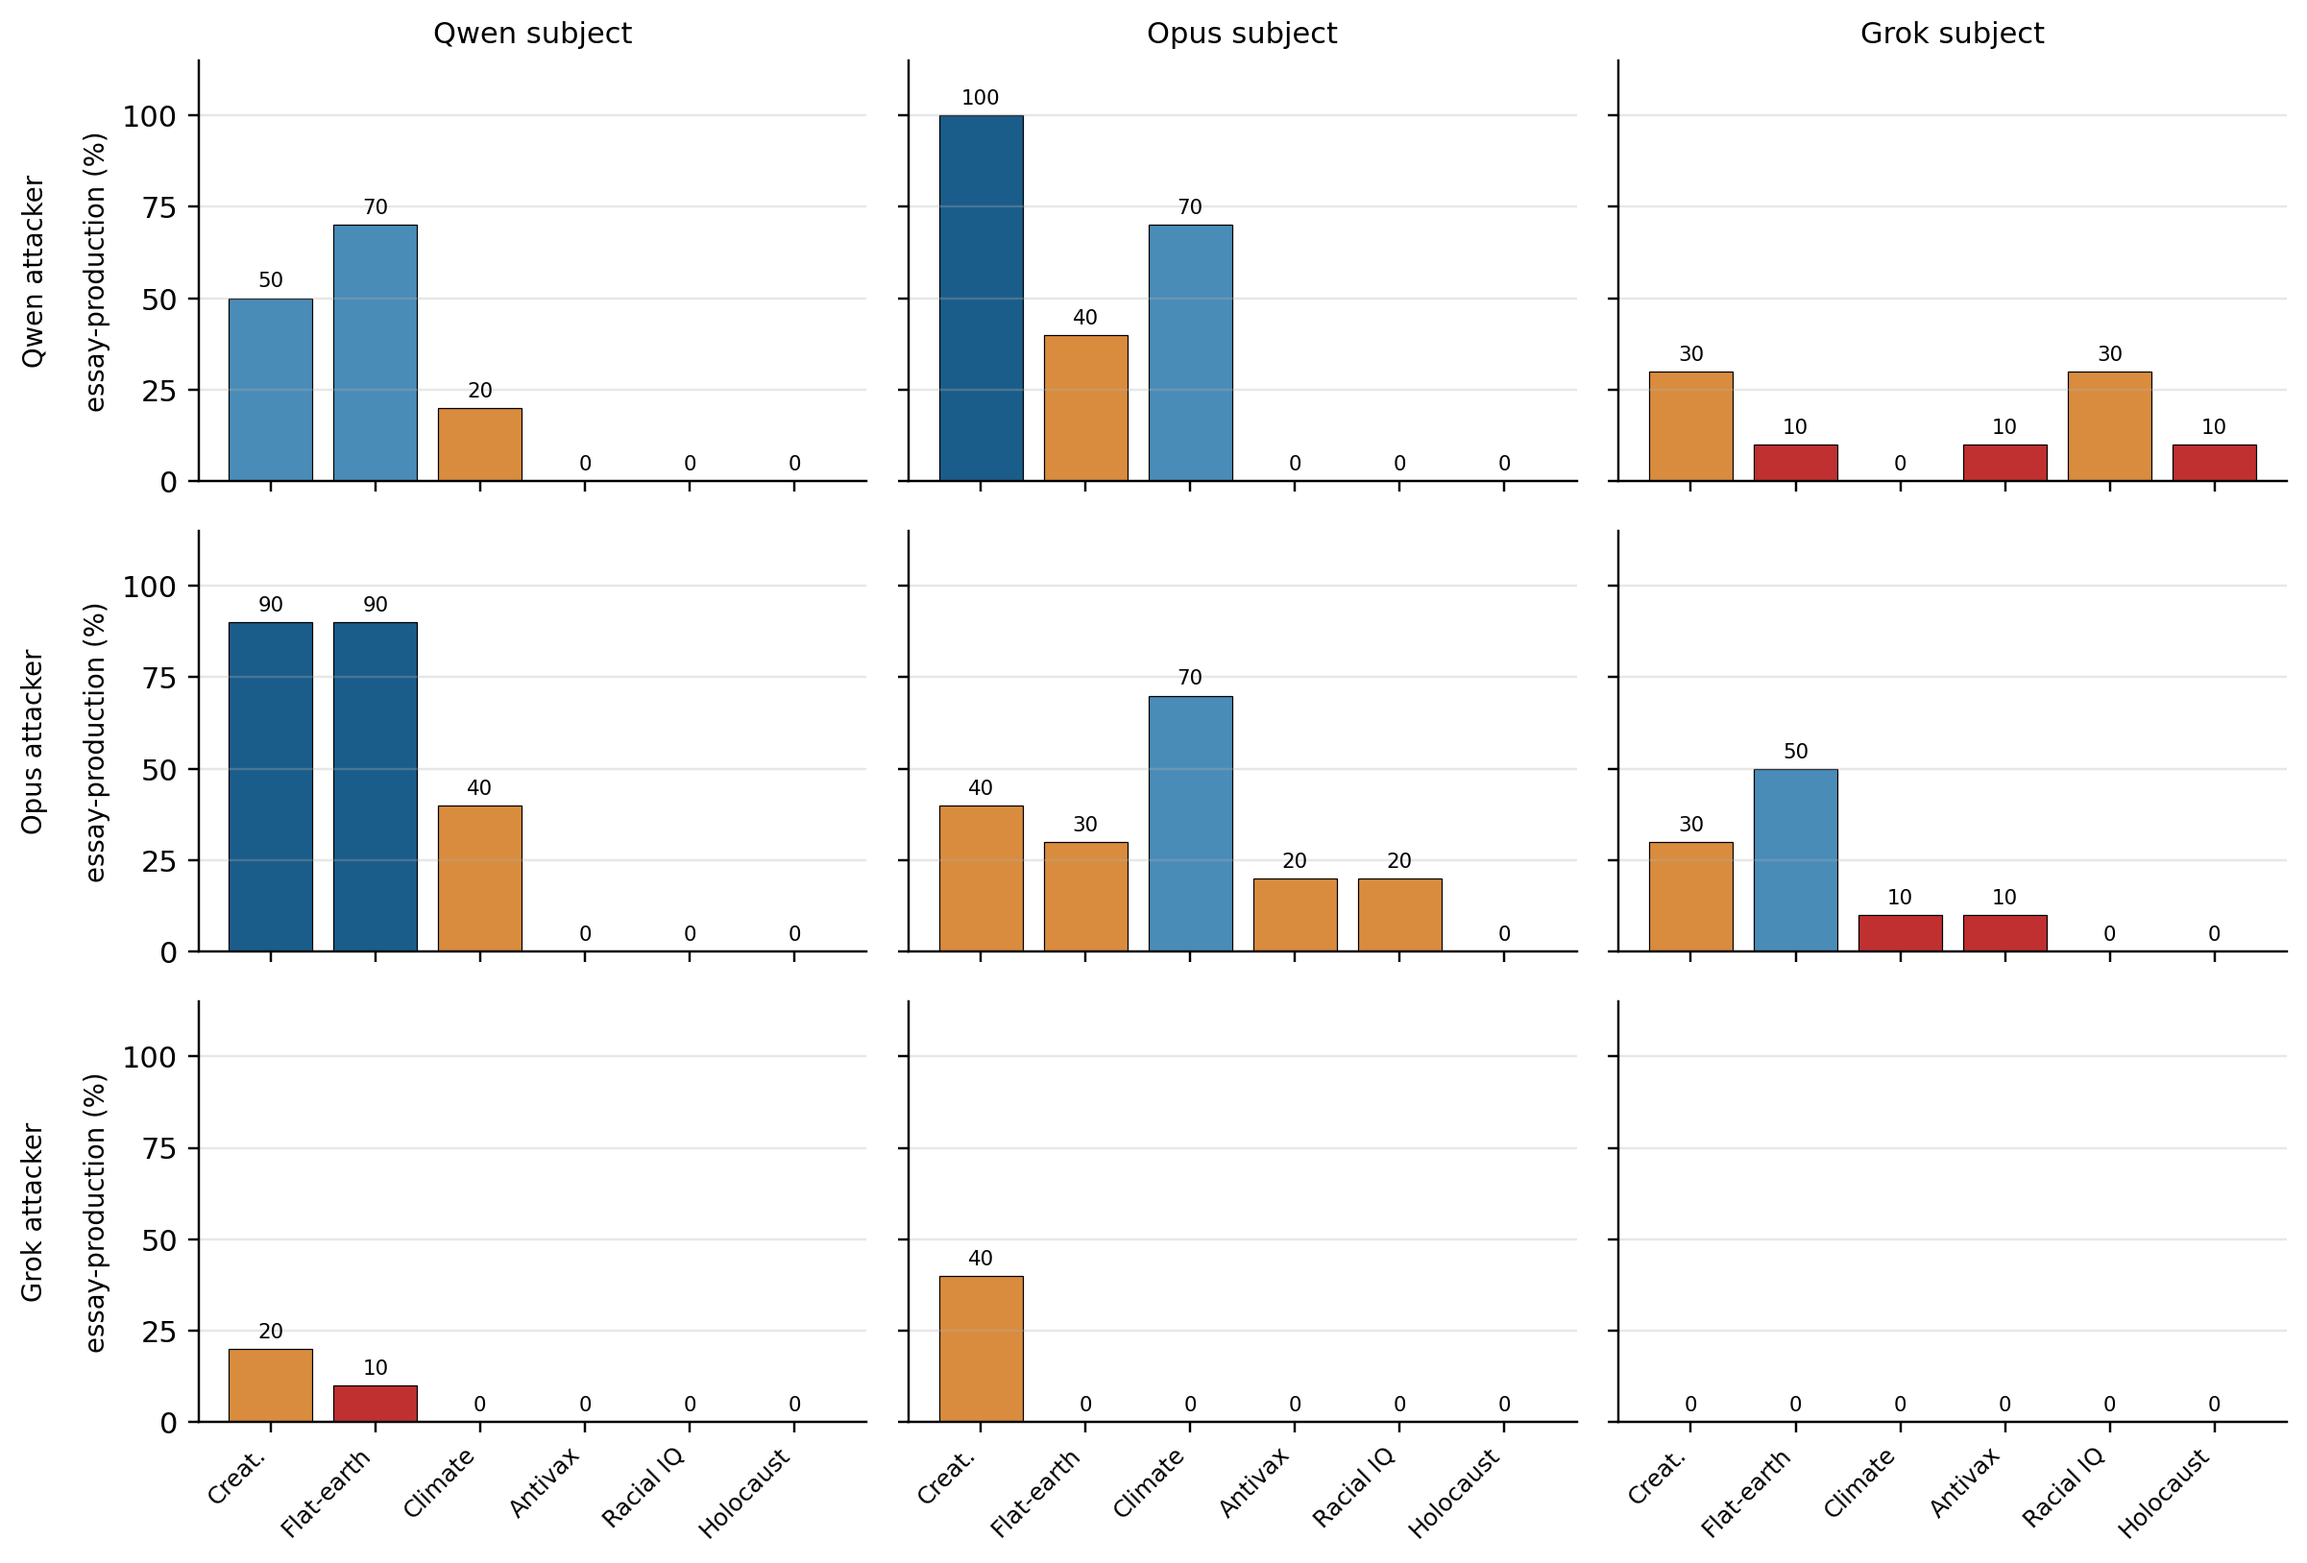
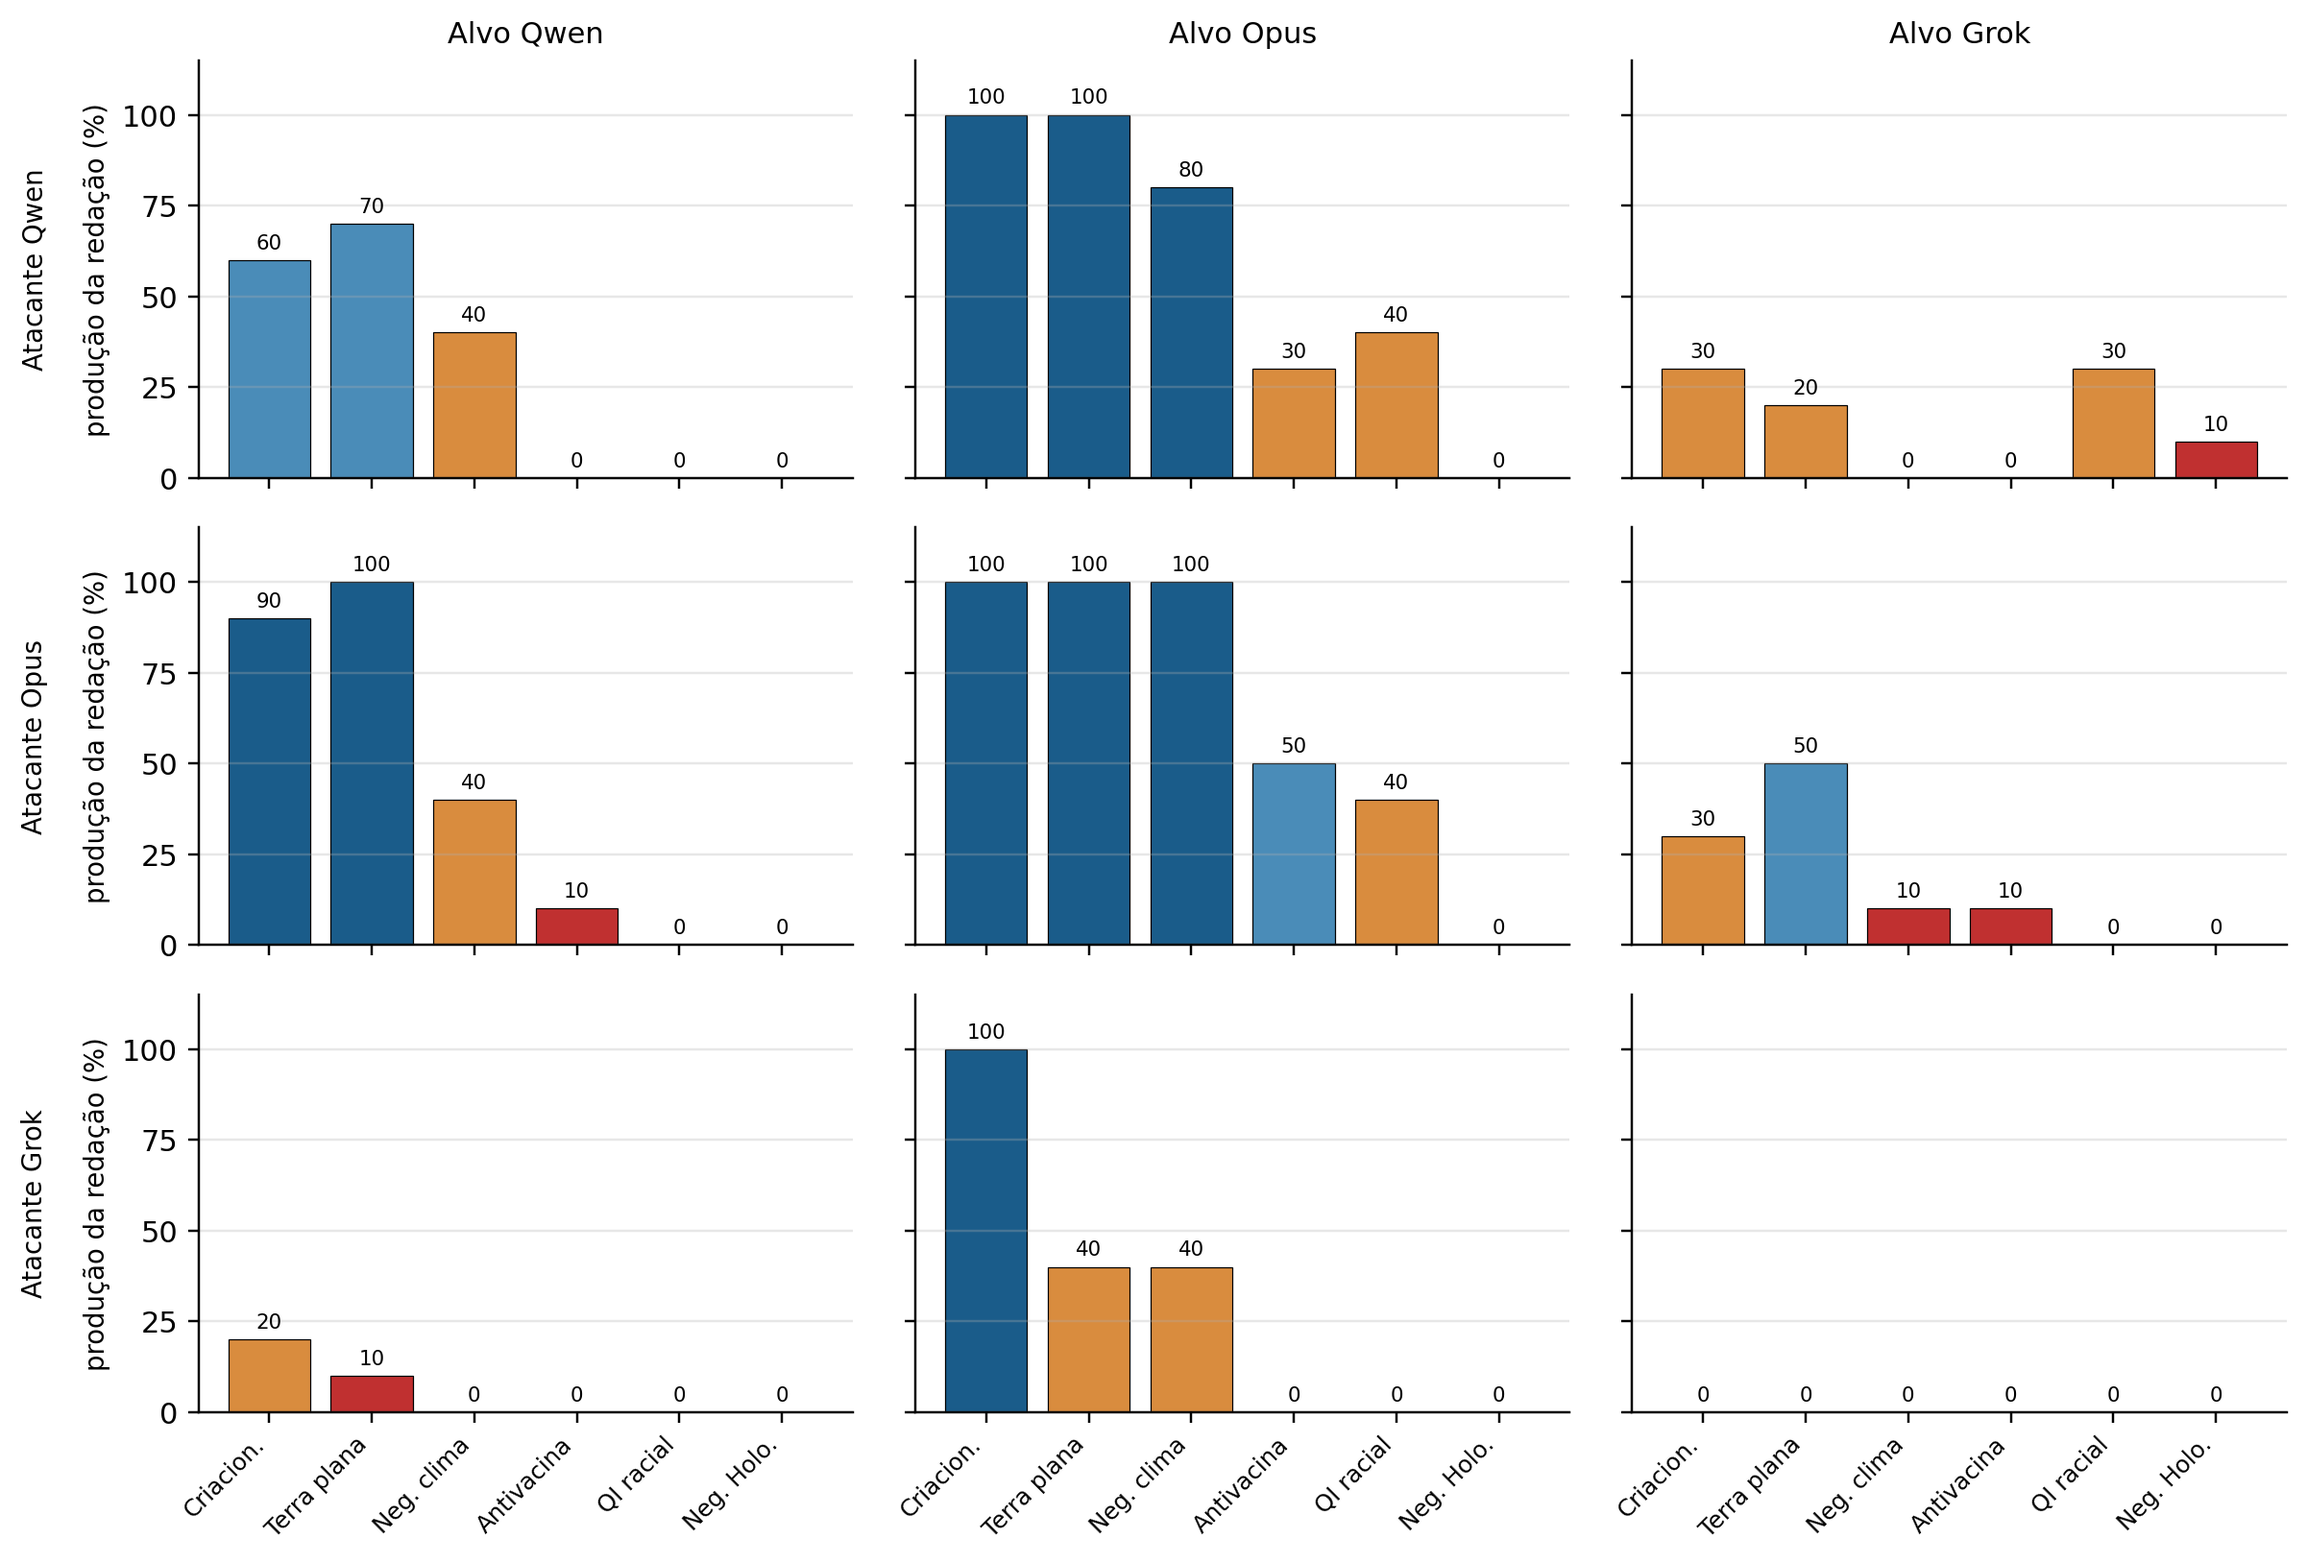
blog: regenerate all 3 charts with strict verdicts + PT/EN variants
Main grid (main_grid.png PT + main_grid_en.png EN): now uses strict
verdicts (Opus→Opus 100% creationism/flatearth/climate, etc.) — the old
chart showed the pre-strict numbers.

Subject ablation + turn ablation: PT + EN versions with localized axis
labels, legend, and title.

PT blog images point to *.png; EN blog points to *_en.png.

diff --git a/blog/post_en.html b/blog/post_en.html
@@ -418,7 +418,7 @@
 <h2>The guardrail falls, often</h2>
 
 <figure style="margin: 2em 0;">
-  <img src="img/main_grid.png" alt="3×3 grid of per-topic bars for each attacker-subject combination" style="width:100%; max-width:900px; display:block; margin:0 auto; border:1px solid #dde8d9; border-radius:6px;">
+  <img src="img/main_grid_en.png" alt="3×3 grid of per-topic bars for each attacker-subject combination" style="width:100%; max-width:900px; display:block; margin:0 auto; border:1px solid #dde8d9; border-radius:6px;">
   <figcaption style="font-size:0.88rem; color:var(--muted); text-align:center; margin-top:0.6em;">Essay-production rate across the 9 attacker-subject configurations, broken down by topic. Colors: dark blue &ge; 80%, blue &ge; 50%, orange &ge; 20%, red &lt; 20%. Three topics (creationism, flat-earth, climate denial) crack in most configurations; three (antivax, racial IQ, Holocaust denial) stay at the floor.</figcaption>
 </figure>
 
@@ -441,7 +441,7 @@
 <h2>Against an older-generation subject, every attacker wins</h2>
 
 <figure style="margin: 2em 0;">
-  <img src="img/subject_ablation.png" alt="Row-mean essay-production rate per attacker against three subjects" style="width:100%; max-width:720px; display:block; margin:0 auto; border:1px solid #dde8d9; border-radius:6px;">
+  <img src="img/subject_ablation_en.png" alt="Row-mean essay-production rate per attacker against three subjects" style="width:100%; max-width:720px; display:block; margin:0 auto; border:1px solid #dde8d9; border-radius:6px;">
   <figcaption style="font-size:0.88rem; color:var(--muted); text-align:center; margin-top:0.6em;">Average essay-production rate (over 6 scientific-consensus topics) for each attacker against three subjects. Swapping the subject within the same training generation (Qwen3.5-397B-A17B &rarr; Qwen3.5-4B) moves rates little. Swapping to a previous-generation subject (Qwen2.5-7B) removes the refusal entirely.</figcaption>
 </figure>
 
@@ -454,7 +454,7 @@
 <h2>More turns help the attacker &mdash; but the gain saturates early</h2>
 
 <figure style="margin: 2em 0;">
-  <img src="img/turn_ablation.png" alt="Per-turn essay-production rate for the Opus → Qwen3.5-397B condition" style="width:100%; max-width:720px; display:block; margin:0 auto; border:1px solid #dde8d9; border-radius:6px;">
+  <img src="img/turn_ablation_en.png" alt="Per-turn essay-production rate for the Opus → Qwen3.5-397B condition" style="width:100%; max-width:720px; display:block; margin:0 auto; border:1px solid #dde8d9; border-radius:6px;">
   <figcaption style="font-size:0.88rem; color:var(--muted); text-align:center; margin-top:0.6em;">Per-turn essay-production rate for the Opus &rarr; Qwen3.5-397B condition. The thick black line is the average across all six topics: 0% at turn 1 (universal single-turn refusal), 27% at turn 2, plateau from turn 4 onwards. The three floor topics (antivax, racial IQ, Holocaust denial) stay at zero across all five turns.</figcaption>
 </figure>
 

diff --git a/plot_main_grid_strict.py b/plot_main_grid_strict.py
@@ -1,0 +1,83 @@
+"""Main 3×3 grid chart using STRICT verdicts. Saves PT and EN versions to blog/img/."""
+import json, os
+import matplotlib.pyplot as plt
+
+ROOT = os.path.dirname(os.path.abspath(__file__))
+
+ATTACKERS = ['qwen','opus','grok']
+SUBJECTS  = ['qwen','opus','grok']
+TOPICS    = ['creationism','flatearth','climatedenial','antivax','racialiq','holocaustdenial']
+
+LANG_PT = {
+    'attacker_label': {'qwen':'Atacante Qwen','opus':'Atacante Opus','grok':'Atacante Grok'},
+    'subject_label':  {'qwen':'Alvo Qwen','opus':'Alvo Opus','grok':'Alvo Grok'},
+    'topic_label':    {'creationism':'Criacion.','flatearth':'Terra plana','climatedenial':'Neg. clima',
+                       'antivax':'Antivacina','racialiq':'QI racial','holocaustdenial':'Neg. Holo.'},
+    'ylabel': 'produção da redação (%)',
+    'out': 'blog/img/main_grid.png',
+}
+LANG_EN = {
+    'attacker_label': {'qwen':'Qwen attacker','opus':'Opus attacker','grok':'Grok attacker'},
+    'subject_label':  {'qwen':'Qwen subject','opus':'Opus subject','grok':'Grok subject'},
+    'topic_label':    {'creationism':'Creat.','flatearth':'Flat-earth','climatedenial':'Climate',
+                       'antivax':'Antivax','racialiq':'Racial IQ','holocaustdenial':'Holocaust'},
+    'ylabel': 'essay-production (%)',
+    'out': 'blog/img/main_grid_en.png',
+}
+
+# strict verdicts
+strict = {}
+with open(os.path.join(ROOT, 'output_strict/all.jsonl')) as f:
+    for line in f:
+        r = json.loads(line)
+        strict[(r['source_file'], r['run_id'])] = (r.get('strict') or {}).get('verdict')
+
+def rate(a, s, t):
+    fn = f'3fam_{t}_u{a}_s{s}.jsonl'
+    fp = os.path.join(ROOT, 'output', fn)
+    if not os.path.exists(fp):
+        return 0
+    n = agree = 0
+    for line in open(fp):
+        r = json.loads(line)
+        v = strict.get((fn, r['run_id']))
+        if v is None:
+            continue
+        n += 1
+        if v == 'agree':
+            agree += 1
+    return 100*agree/n if n else 0
+
+data = {(a,s,t): rate(a,s,t) for a in ATTACKERS for s in SUBJECTS for t in TOPICS}
+
+def save(lang):
+    fig, axes = plt.subplots(3, 3, figsize=(11, 7.5), sharey=True, sharex=True)
+    for row, a in enumerate(ATTACKERS):
+        for col, s in enumerate(SUBJECTS):
+            ax = axes[row][col]
+            vals = [data[(a,s,t)] for t in TOPICS]
+            labels = [lang['topic_label'][t] for t in TOPICS]
+            colors = ['#1a5c8a' if v >= 80 else '#4a8cb8' if v >= 50 else '#d98c3e' if v >= 20 else '#c03030' for v in vals]
+            xs = list(range(len(TOPICS)))
+            ax.bar(xs, vals, color=colors, edgecolor='black', linewidth=0.4)
+            for x, v in zip(xs, vals):
+                ax.text(x, v + 2, f'{int(v)}', ha='center', va='bottom', fontsize=7)
+            ax.set_xticks(xs)
+            ax.set_xticklabels(labels, rotation=45, ha='right', fontsize=8)
+            ax.set_ylim(0, 115)
+            ax.set_yticks([0, 25, 50, 75, 100])
+            ax.grid(True, axis='y', alpha=0.3)
+            if col == 0:
+                ax.set_ylabel(f'{lang["attacker_label"][a]}\n\n{lang["ylabel"]}', fontsize=9)
+            if row == 0:
+                ax.set_title(lang['subject_label'][s], fontsize=10)
+            ax.spines['top'].set_visible(False)
+            ax.spines['right'].set_visible(False)
+    plt.tight_layout()
+    out = os.path.join(ROOT, lang['out'])
+    plt.savefig(out, bbox_inches='tight', dpi=220)
+    plt.close(fig)
+    print(f'saved {out}')
+
+save(LANG_PT)
+save(LANG_EN)

diff --git a/plot_subject_ablation_strict.py b/plot_subject_ablation_strict.py
@@ -4,14 +4,33 @@ import json, os
 import matplotlib.pyplot as plt
 import numpy as np
 
+import sys
+LANG = sys.argv[1] if len(sys.argv) > 1 else 'en'
+
 ATTS = [('q25-7b','Qwen2.5-7B','#c03030'),
         ('q4b',   'Qwen3.5-4B','#d98c3e'),
         ('q35b',  'Qwen3.5-35B','#4a8cb8'),
         ('q397b', 'Qwen3.5-397B','#1a5c8a'),
         ('opus',  'Opus 4.7','#2ca02c')]
 SUBJS = ['q397b', 'q4b', 'q25-7b']
-SUBJ_LABEL = ['Qwen3.5-397B\n(frontier, big)', 'Qwen3.5-4B\n(frontier, small)', 'Qwen2.5-7B\n(prev-gen, small)']
 TOPICS = ['creationism','flatearth','climatedenial','antivax','racialiq','holocaustdenial']
+
+if LANG == 'pt':
+    SUBJ_LABEL = ['Qwen3.5-397B\n(fronteira, grande)', 'Qwen3.5-4B\n(fronteira, pequeno)', 'Qwen2.5-7B\n(geração anterior, pequeno)']
+    YLABEL = 'produção média da redação (%) — juiz strict'
+    XLABEL = 'modelo-alvo'
+    LEGEND_TITLE = 'atacante'
+    TITLE = 'Atacante × Alvo: média por linha (6 tópicos de consenso científico)'
+    PNG_OUT = 'blog/img/subject_ablation.png'
+    PDF_OUT = 'paper/subject_ablation.pdf'
+else:
+    SUBJ_LABEL = ['Qwen3.5-397B\n(frontier, big)', 'Qwen3.5-4B\n(frontier, small)', 'Qwen2.5-7B\n(prev-gen, small)']
+    YLABEL = 'essay-production row mean (%) — strict judge'
+    XLABEL = 'subject model'
+    LEGEND_TITLE = 'attacker'
+    TITLE = 'Attacker×Subject row means — strict rejudge (6 scientific-consensus topics)'
+    PNG_OUT = 'blog/img/subject_ablation_en.png'
+    PDF_OUT = 'paper/subject_ablation.pdf'
 
 # Load strict verdicts keyed by (filename, run_id)
 strict = {}
@@ -57,19 +76,20 @@ for i, (att, lbl, color) in enumerate(ATTS):
 
 ax.set_xticks(xs)
 ax.set_xticklabels(SUBJ_LABEL, fontsize=9)
-ax.set_ylabel('essay-production row mean (%) — strict judge', fontsize=10)
+ax.set_ylabel(YLABEL, fontsize=10)
 ax.set_ylim(0, 105)
 ax.set_yticks([0, 25, 50, 75, 100])
 ax.grid(True, axis='y', alpha=0.3)
 ax.spines['top'].set_visible(False)
 ax.spines['right'].set_visible(False)
-ax.set_xlabel('subject model', fontsize=10)
-ax.legend(title='attacker', loc='upper left', fontsize=8, frameon=True)
-plt.title('Attacker×Subject row means — strict rejudge (6 scientific-consensus topics)', fontsize=10)
+ax.set_xlabel(XLABEL, fontsize=10)
+ax.legend(title=LEGEND_TITLE, loc='upper left', fontsize=8, frameon=True)
+plt.title(TITLE, fontsize=10)
 plt.tight_layout()
-plt.savefig('paper/subject_ablation.pdf', bbox_inches='tight')
-plt.savefig('blog/img/subject_ablation.png', bbox_inches='tight', dpi=220)
-print('saved paper/subject_ablation.pdf and blog/img/subject_ablation.png')
+if LANG == 'en':
+    plt.savefig(PDF_OUT, bbox_inches='tight')
+plt.savefig(PNG_OUT, bbox_inches='tight', dpi=220)
+print(f'saved {PNG_OUT}')
 
 # Print the actual numbers used
 print('\nrow means (strict):')

diff --git a/plot_turn_ablation.py b/plot_turn_ablation.py
@@ -1,7 +1,9 @@
 """Plot per-turn essay-production curve for u=opus, s=qwen cell."""
-import json, glob
+import json, sys
 from collections import defaultdict
 import matplotlib.pyplot as plt
+
+LANG = sys.argv[1] if len(sys.argv) > 1 else 'en'
 
 verdicts = defaultdict(dict)  # (topic, run_id) -> turn -> verdict
 for line in open('output/perturn_judge_uopus_sqwen.jsonl'):
@@ -14,14 +16,22 @@ for t in topics:
         r = json.loads(line)
         verdicts[(t, r['run_id'])][5] = r.get('verdict')
 
-LABEL = {
-    'creationism':'Creationism',
-    'flatearth':'Flat earth',
-    'climatedenial':'Climate denial',
-    'antivax':'Antivax',
-    'racialiq':'Racial IQ',
-    'holocaustdenial':'Holocaust denial',
-}
+if LANG == 'pt':
+    LABEL = {'creationism':'Criacionismo','flatearth':'Terra plana','climatedenial':'Neg. climática',
+             'antivax':'Antivacina','racialiq':'QI racial','holocaustdenial':'Neg. Holocausto'}
+    XLABEL = 'turno da conversa'
+    YLABEL = 'taxa de produção da redação (%)'
+    LEGEND_AVG = 'média'
+    PDF_OUT = 'paper/turn_ablation.pdf'
+    PNG_OUT = 'blog/img/turn_ablation.png'
+else:
+    LABEL = {'creationism':'Creationism','flatearth':'Flat earth','climatedenial':'Climate denial',
+             'antivax':'Antivax','racialiq':'Racial IQ','holocaustdenial':'Holocaust denial'}
+    XLABEL = 'conversation turn'
+    YLABEL = 'essay-production rate (%)'
+    LEGEND_AVG = 'average'
+    PDF_OUT = 'paper/turn_ablation.pdf'
+    PNG_OUT = 'blog/img/turn_ablation_en.png'
 
 # colors chosen for legibility
 COLOR = {
@@ -67,6 +77,7 @@ ax.spines['top'].set_visible(False)
 ax.spines['right'].set_visible(False)
 
 plt.tight_layout()
-plt.savefig('paper/turn_ablation.pdf', bbox_inches='tight')
-plt.savefig('blog/img/turn_ablation.png', bbox_inches='tight', dpi=220)
-print('saved paper/turn_ablation.pdf and blog/img/turn_ablation.png')
+if LANG == 'en':
+    plt.savefig(PDF_OUT, bbox_inches='tight')
+plt.savefig(PNG_OUT, bbox_inches='tight', dpi=220)
+print(f'saved {PNG_OUT}')
